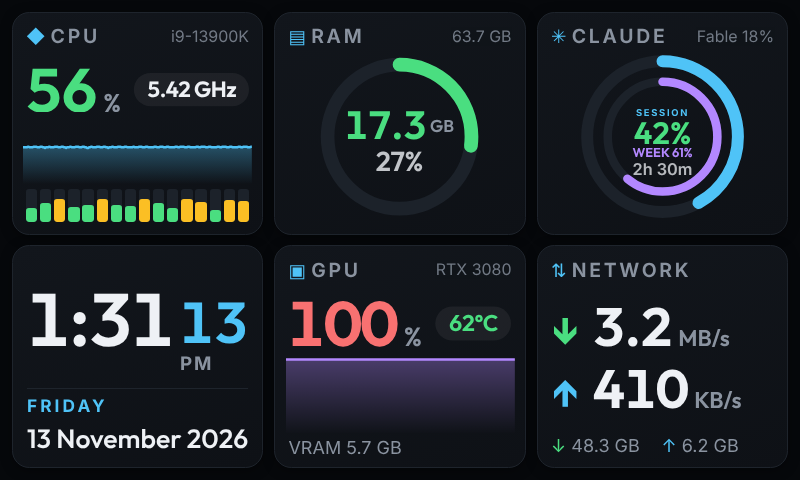
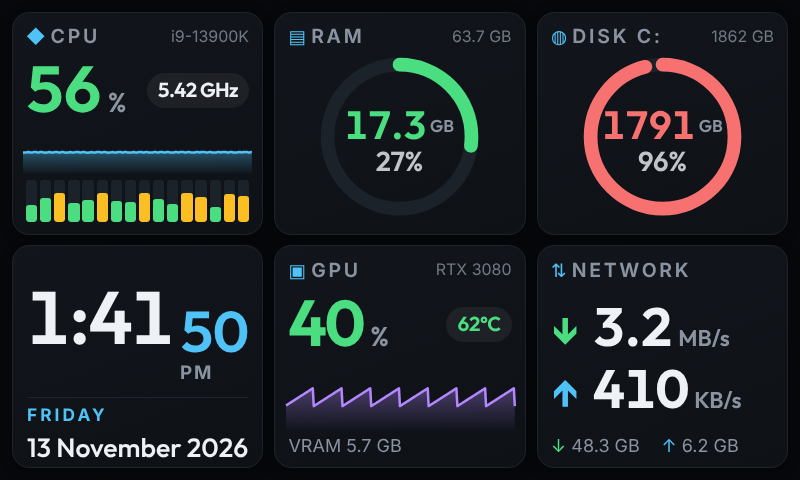
v1.7.2: GHz and temperature chips always visible
Claude-Session: https://claude.ai/code/session_012C1HCLEP1UKrgaqZb5bfPc

diff --git a/src/main.tsx b/src/main.tsx
@@ -317,9 +317,12 @@ function App() {
     return (
       <>
         <Head label="CPU" icon="◆" right={cfg.showCpuName ? shortCpu(s!.cpuName) : undefined} />
-        <Fit className={`big${large ? ' xl' : ''}`}>
-          <span style={{ color: tone(s!.cpu.total) }}>{s!.cpu.total}</span>
-          <span className="unit">%</span>
+        {/* the chip keeps its size; only the number shrinks if the tile is too narrow */}
+        <div className={`valrow big${large ? ' xl' : ''}`}>
+          <Fit className="valnum">
+            <span style={{ color: tone(s!.cpu.total) }}>{s!.cpu.total}</span>
+            <span className="unit">%</span>
+          </Fit>
           {cfg.cpuChip === 'speed' && s!.cpuGhz != null && <span className="chip">{s!.cpuGhz.toFixed(2)} GHz</span>}
           {cfg.cpuChip === 'temp' && c != null && (
             <span className={`chip${s!.hw.cpuTempStuck ? ' stuck' : ''}`} style={{ color: s!.hw.cpuTempStuck ? undefined : tempTone(c) }}>
@@ -327,7 +330,7 @@ function App() {
               {temp(c)}
             </span>
           )}
-        </Fit>
+        </div>
         <div className="graph">
           <Spark data={hist.cpu} color="var(--accent)" len={len} />
         </div>
@@ -418,13 +421,15 @@ function App() {
       return (
         <div className="tile" key={key}>
           <Head label="GPU" icon="▣" right={st.gpu.name} />
-          <Fit className="big">
-            <span style={{ color: tone(st.gpu.use) }}>{st.gpu.use}</span>
-            <span className="unit">%</span>
+          <div className="valrow big">
+            <Fit className="valnum">
+              <span style={{ color: tone(st.gpu.use) }}>{st.gpu.use}</span>
+              <span className="unit">%</span>
+            </Fit>
             <span className="chip" style={{ color: tempTone(st.gpu.temp) }}>
               {temp(st.gpu.temp)}
             </span>
-          </Fit>
+          </div>
           <div className="graph">
             <Spark data={hist.gpu} color="var(--accent2)" len={len} />
           </div>

diff --git a/src/index.css b/src/index.css
@@ -211,3 +211,11 @@ body { font-family: 'Inter Variable', system-ui, -apple-system, 'Segoe UI', Robo
 .lfull .graph { flex-basis: 0; }
 .tile > * { flex-shrink: 0; }
 .tile > .graph, .tile > .bigring-wrap, .tile > .cores { flex-shrink: 1; }
+
+/* value row: number (shrinks if needed) + chip (always shown, fixed size) */
+.valrow { display: flex; align-items: center; min-width: 0; font-size: calc(9vh * var(--ns)); }
+.valrow.xl { font-size: calc(17vh * var(--ns)); }
+.valrow .valnum { flex: 1 1 auto; min-width: 0; width: auto; }
+.valrow .chip { flex: 0 0 auto; position: static; top: auto; font-size: calc(3.4vh * var(--ns)); margin-left: 1vh; }
+.valrow.xl .chip { font-size: calc(4.4vh * var(--ns)); }
+.valrow .chip { font-size: calc(2.8vh * var(--ns)); padding: 0.3em 0.55em; margin-left: 0.8vh; }

diff --git a/CHANGELOG.md b/CHANGELOG.md
@@ -1,5 +1,8 @@
 # Changelog
 
+## 1.7.2
+- The GHz chip (and the GPU temperature chip) always shows: it keeps a fixed size and only the % number shrinks when space runs out. The CPU % is a little smaller to leave room.
+
 ## 1.7.1
 - Equal space above and below the tiles: rows can no longer grow past the screen.
 - CPU % and the date are no longer clipped at the bottom.
